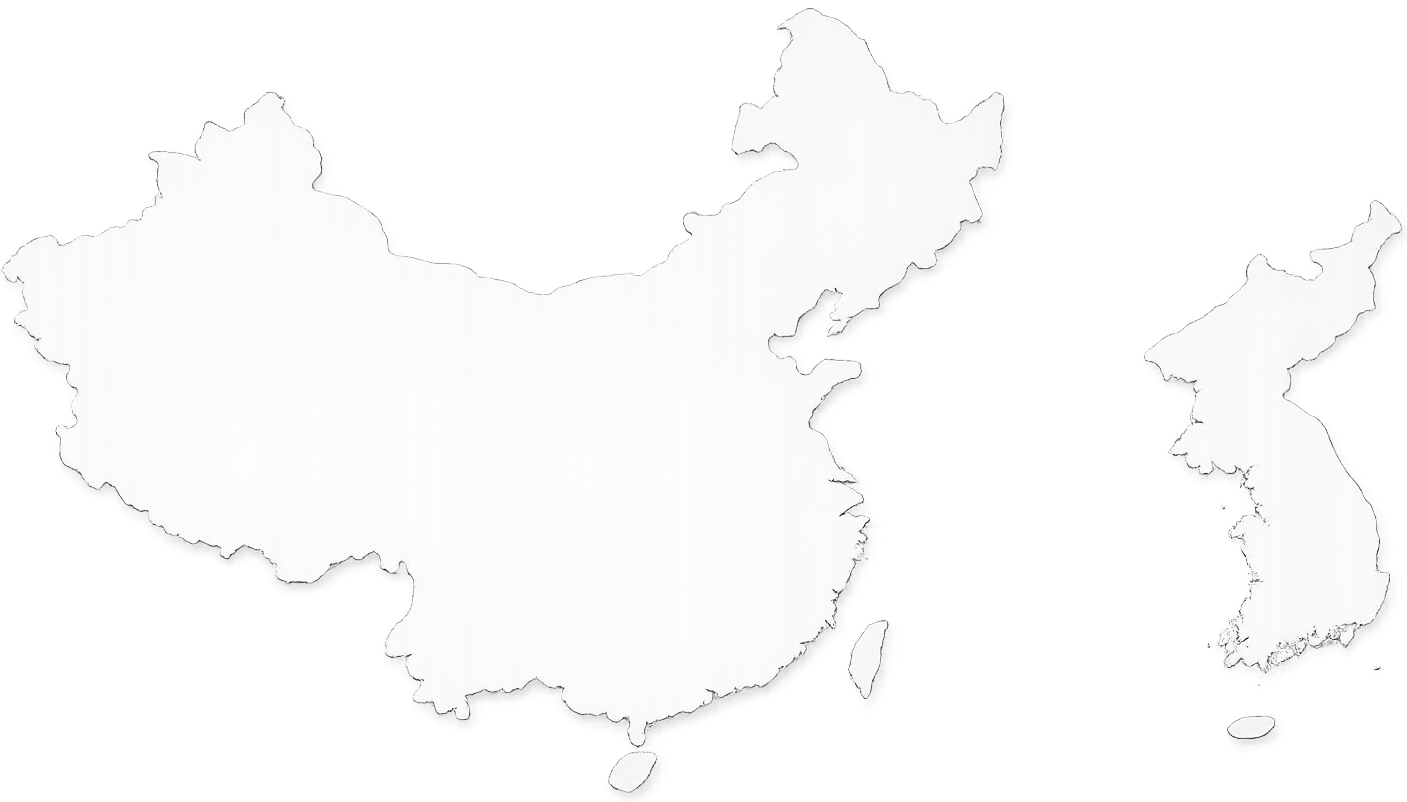
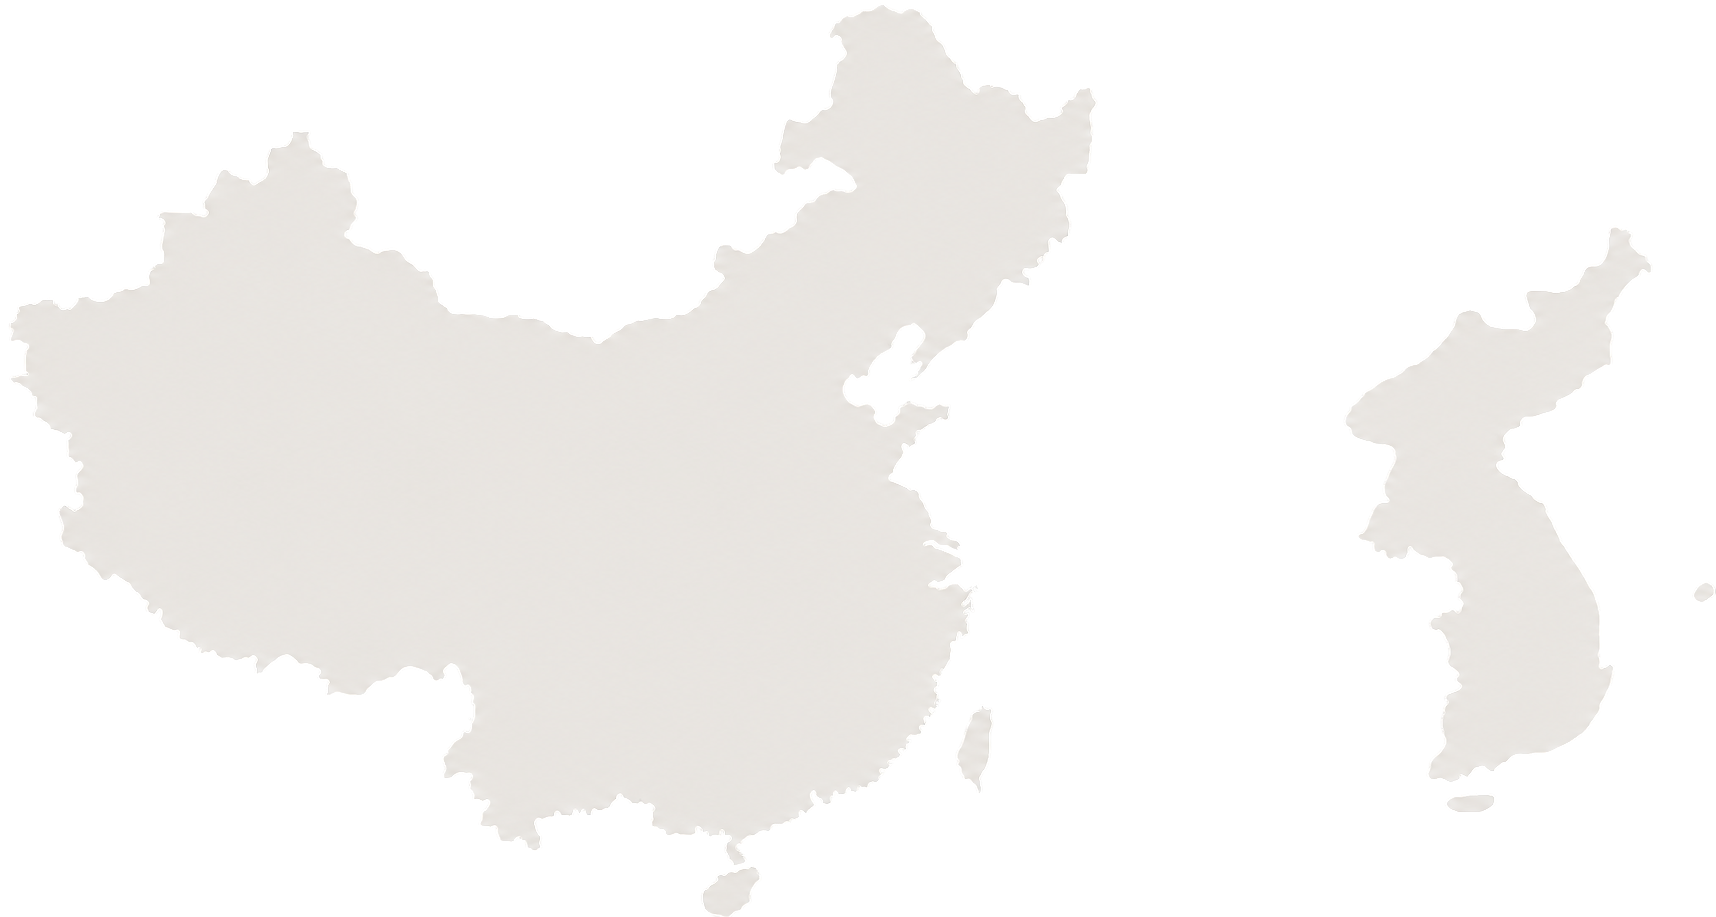
Refine company and intro map styles and consolidate Korea-China map assets.

diff --git a/css/company.css b/css/company.css
@@ -316,6 +316,7 @@
   width: 100%;
   height: auto;
   pointer-events: none;
+  filter: contrast(1.07) brightness(1.09);
 }
 
 /* 한국 허브 */
@@ -324,7 +325,7 @@
 }
 
 .cp_hub_glow {
-  opacity: 0.85;
+  opacity: 0.82;
 }
 
 @keyframes cp_pulse {
@@ -334,14 +335,14 @@
 }
 .cp_hub_ring {
   fill: none;
-  stroke: #fff;
-  stroke-width: 1.5;
+  stroke: #fffef8;
+  stroke-width: 1.7;
   animation: cp_pulse 2.8s ease-out infinite;
 }
 
 /* 도시 노드 */
 .cp_city {
-  fill: #fffef5;
+  fill: #fffef8;
   opacity: 0;
 }
 .cp_strength.cp_in .cp_city {
@@ -381,19 +382,19 @@
 /* 국제 연결선 (JS에서 생성) */
 .cp_line {
   stroke: url(#cp_arc_grad);
-  stroke-width: 1.4;
+  stroke-width: 1.7;
   fill: none;
   stroke-linecap: round;
-  opacity: 0.9;
+  opacity: 0.88;
 }
 
 /* 이동 포인트 (JS에서 생성) */
 .cp_mover {
-  fill: #fffef8;
+  fill: #fff;
   opacity: 0;
 }
 .cp_strength.cp_in .cp_mover {
-  opacity: 0.95;
+  opacity: 0.82;
   transition: opacity 0.5s ease 1.4s;
 }
 
@@ -681,8 +682,7 @@
 }
 
 .cp_closing_shadow,
-.cp_closing_glow,
-.cp_closing_steps {
+.cp_closing_glow {
   transition: transform 0.12s ease-out;
 }
 
@@ -714,19 +714,6 @@
     rgba(255, 255, 255, 0.2) 40%,
     transparent 72%
   );
-}
-
-/* 좌하단 계단 형태 */
-.cp_closing_steps {
-  position: absolute;
-  left: 0;
-  bottom: 0;
-  width: clamp(120px, 18vw, 240px);
-  height: clamp(60px, 10vw, 120px);
-  background:
-    linear-gradient(to top, rgba(255,255,255,0.55), transparent 70%),
-    linear-gradient(to top, rgba(230,228,224,0.9) 0%, rgba(230,228,224,0.9) 28%, transparent 28%),
-    linear-gradient(to top, rgba(220,218,214,0.7) 0%, rgba(220,218,214,0.7) 55%, transparent 55%);
 }
 
 /* 우하단 유동적 패브릭 */
@@ -920,5 +907,4 @@
 
   /* CLOSING: 모바일 배경 요소 축소 */
   .cp_closing_fabric { width: 90%; opacity: 0.15; }
-  .cp_closing_steps { width: 80px; height: 48px; }
 }

diff --git a/css/intro.css b/css/intro.css
@@ -902,7 +902,7 @@
   to { stroke-dashoffset: 0; }
 }
 
-/* 연결 노드 — 서울·베이징 */
+/* 서울 노드 — 링 + 글로우 + 코어 */
 .intro_map_dot {
   animation: map_dot 0.45s cubic-bezier(0.22, 1, 0.36, 1) forwards 15.4s;
 }
@@ -913,6 +913,16 @@
 
 .intro_map_dot_ring {
   animation: map_dot_ring 0.5s ease forwards 15.5s;
+}
+
+/* 베이징 노드 — company 도시 노드 스타일 (골드) */
+.intro_map_city_dot {
+  animation: intro_city_dot_in 0.55s ease forwards 15.45s;
+}
+
+@keyframes intro_city_dot_in {
+  from { opacity: 0; }
+  to   { opacity: 0.95; }
 }
 
 @keyframes map_dot_glow {

diff --git a/css/index.css b/css/index.css
@@ -283,7 +283,7 @@ body {
 /* 짧은 서비스 설명 */
 .ms_svc_desc {
   font-family: 'Noto Serif KR', serif;
-  font-size: clamp(12px, 1.1vw, 14px);
+  font-size: clamp(11px, 1.1vw, 13px);
   color: var(--text2);
   line-height: 1.85;
   letter-spacing: 0.02em;